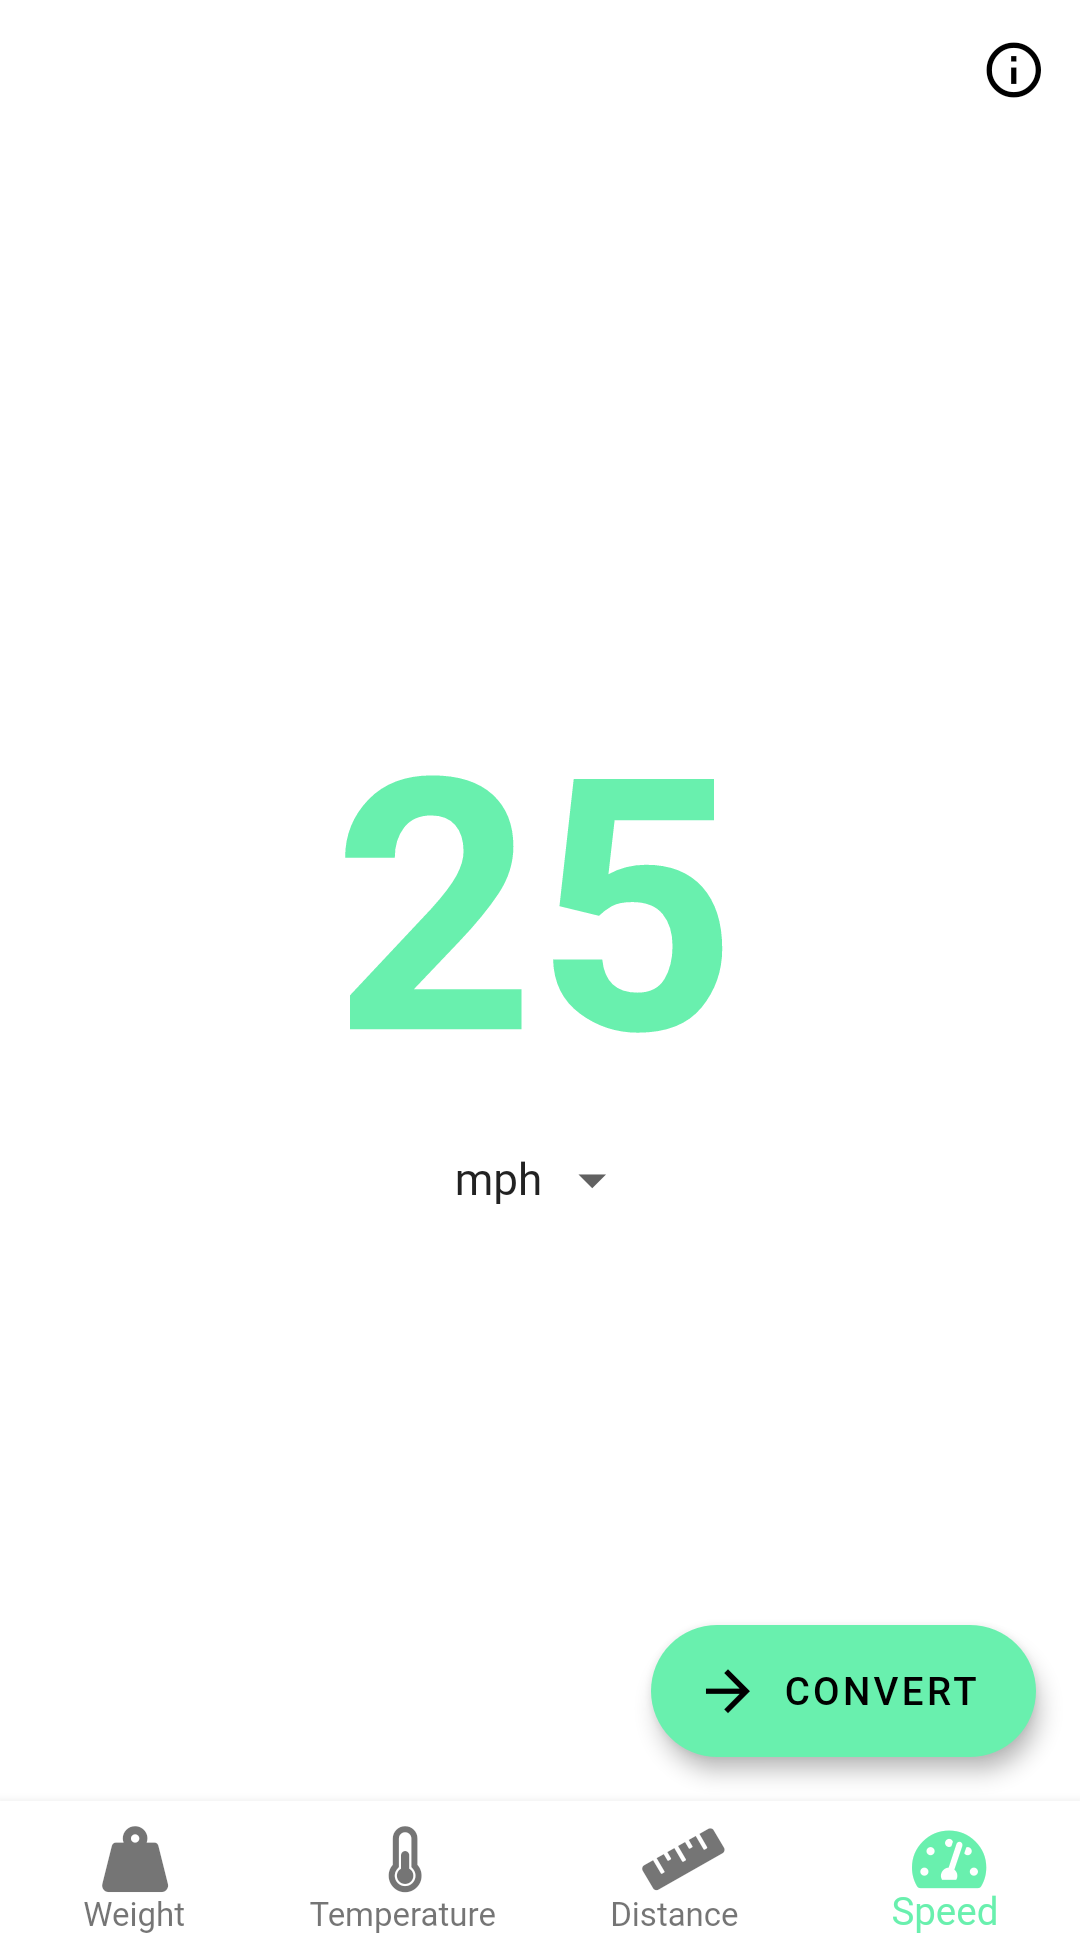
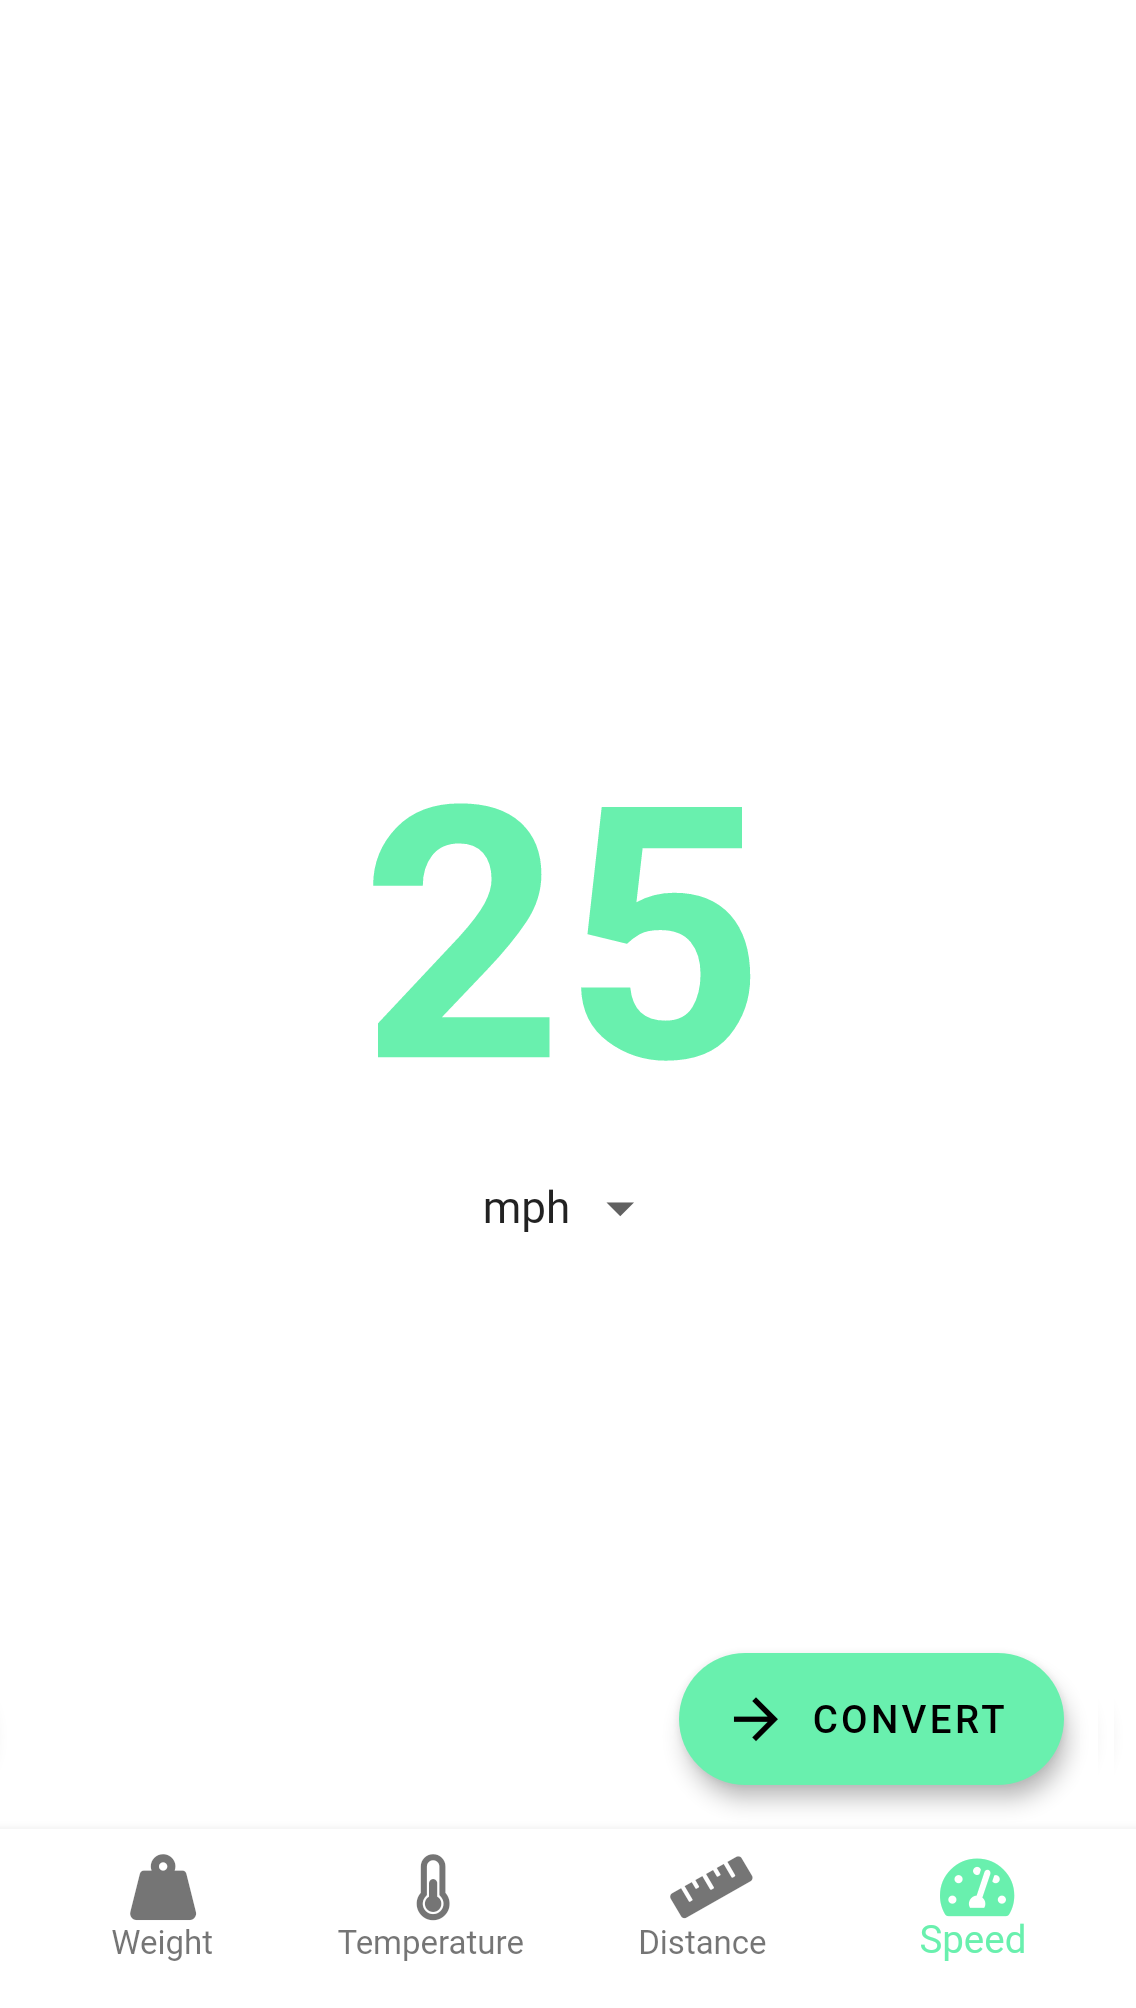
improve images

diff --git a/flutter_service_worker.js b/flutter_service_worker.js
@@ -3,7 +3,7 @@ const MANIFEST = 'flutter-app-manifest';
 const TEMP = 'flutter-temp-cache';
 const CACHE_NAME = 'flutter-app-cache';
 const RESOURCES = {
-  ".git/COMMIT_EDITMSG": "13b5e501ea90caa26a354a7e58e42830",
+  ".git/COMMIT_EDITMSG": "dc9829948ad50d9044d3e3cf8e77798d",
 ".git/config": "ea0b14179d7d19ff399baadd48c2910c",
 ".git/description": "a0a7c3fff21f2aea3cfa1d0316dd816c",
 ".git/FETCH_HEAD": "d41d8cd98f00b204e9800998ecf8427e",
@@ -20,11 +20,11 @@ const RESOURCES = {
 ".git/hooks/pre-receive.sample": "2ad18ec82c20af7b5926ed9cea6aeedd",
 ".git/hooks/prepare-commit-msg.sample": "2b5c047bdb474555e1787db32b2d2fc5",
 ".git/hooks/update.sample": "517f14b9239689dff8bda3022ebd9004",
-".git/index": "c1215e9bc3a10eeb22906334a8c042b9",
+".git/index": "7fb557e099a5a4eeb1f9132d43d2637f",
 ".git/info/exclude": "036208b4a1ab4a235d75c181e685e5a3",
-".git/logs/HEAD": "97d0f3de0c27204e5f0ccf0d7260c2ea",
-".git/logs/refs/heads/master": "97d0f3de0c27204e5f0ccf0d7260c2ea",
-".git/logs/refs/remotes/origin/master": "6a5c04f5cddae0b439ff963cb5bac4dc",
+".git/logs/HEAD": "128380ed83d41d924e434b8e4ffa4a1f",
+".git/logs/refs/heads/master": "128380ed83d41d924e434b8e4ffa4a1f",
+".git/logs/refs/remotes/origin/master": "28d1971e28be2f275130a8f0812b1672",
 ".git/objects/00/0feaf4e3abf6d2be7ee0c9a8d381b34e4d51ad": "48f677a78e747cac7ecf5c4482733beb",
 ".git/objects/00/7c2075d4d058023755f149a0c68ecc43adb08c": "431c358f05af62a983b4916b84d5e333",
 ".git/objects/01/193c92405418540c781e8698c6f90952f17709": "b6c75cb9297a96206a1c1e8a66422bd5",
@@ -43,6 +43,7 @@ const RESOURCES = {
 ".git/objects/06/dfa5db198a0749d1bdfc3d374ee7bbe0916125": "22461c128dce5d94d84aac25fe798700",
 ".git/objects/07/13cdaf4ab8564c40c24d958bea9efc552878ac": "745245ab0d51e91268917a919bbbd209",
 ".git/objects/07/4f95135c6f61f0d9f4322b1c2460715f93a0cf": "49d8c2931cf9573ec68ca5981faa326b",
+".git/objects/07/b0817a457101f3284c59ecc7cc1cd79004cdce": "6bcc1bc2d8f140261f8090c9c00f7f1b",
 ".git/objects/07/f7115259cadcf9c10a12c833695f0216f2edf9": "2c61c5b1398fb5c799ee695204131545",
 ".git/objects/08/065ec7fa9d6b934e8998ef964de2a7277fc17e": "e8771d7c83a1e1833ee75d99761075ad",
 ".git/objects/08/9c5188763af8a95529b448515edda210b999f6": "d41683bda4a6e7a6c590a594e62724d2",
@@ -59,6 +60,7 @@ const RESOURCES = {
 ".git/objects/0c/d56d647740fab15c090448225e7d0cb2be8036": "357be7c111ec2c3780cbd65f69a01c54",
 ".git/objects/0d/c6bcf0bc5945c3a32d218102f925e670f925c9": "1093c9bcb5302d97a2cf8e7a20667ebe",
 ".git/objects/0e/5a0f1791b31e5959ec12e4347bc372e769b851": "dbf45f870da4f41b823a7fc401ef04a3",
+".git/objects/0e/836132814fd0d82cfbab4327a12cec7d5803db": "2a050a22f354fdce47254cd1b52b2b4e",
 ".git/objects/0f/4ab0fecd3dfd2c826e01f3ef7f2fba6c449d04": "6c2ffca6a06445101aee35817284ab4d",
 ".git/objects/0f/a78ec32c7929644f0854746f231729996b89d1": "7b0cc1b40993e0fe2fb5d9bcd0033b1a",
 ".git/objects/10/5d49e73e51b2161f6863e04c348ed37775348a": "db26a2184f713533c1c7d6a5908f57c4",
@@ -133,6 +135,7 @@ const RESOURCES = {
 ".git/objects/a2/e96dccd2049d41002f174a51103573f2efa5ba": "62fa14b1b1c316228c8a8d4809e59c33",
 ".git/objects/a3/3b197edf2c29c73906a310a604a7074fe8dd91": "589091771ff95994ef4e04a09fe76a26",
 ".git/objects/a3/6535e8022af81edc2dc9b4f5245f376bf3035d": "733ad58560745e15aadffb8925f7230d",
+".git/objects/a3/6a426e6a91f7f53d445ae3fa91a3d59c22a1f5": "ffd8fd6f9710c8bd29c4100d24520d54",
 ".git/objects/a3/d6ff6da0284ca8fc3a8e2d0bb709a7346a7091": "78cff14d95906faadc94b94e2c6818eb",
 ".git/objects/a5/128ea2e4eaa5f7cc4aa3968f82653284b646da": "77b860154922c3129cf62f2c3dabee80",
 ".git/objects/a6/082c24b006e2107194dd1fcfdf66d8edfc97ef": "7540b923c5c8f05a5a422e8ecf815abc",
@@ -181,6 +184,7 @@ const RESOURCES = {
 ".git/objects/ba/18e4d160c331fe7d812daac492796a4d127a36": "c16bf62b497f35223846fdf0369babbf",
 ".git/objects/ba/5c37219ca635143fa667dcf67726c02c9dd26e": "3be3aeb4296285b5f5a6b763feaa8eb8",
 ".git/objects/ba/a54bb726a2ed13b8db39883ef2fe266312cfdf": "3f72e28b58e69e1f9e16492725b56487",
+".git/objects/bb/46089517a0a7debf182e6c34aee7c922e292d7": "8d2b35b45bc6f94d82dd20cb8e725cc7",
 ".git/objects/bb/91247198193e7a5c9f9951ebe13fda8ba74ce7": "49b5804427ca9ceb6d826651014c3542",
 ".git/objects/4a/dc56b7cad828e9769ee4568fe39738825377a0": "6472517eff6bbb2abf0a8f5085e6f21c",
 ".git/objects/4b/4dda4053048f3fc6361ee02862781df947a3c8": "08d6c911997191afa79e23b9e8e7ada1",
@@ -292,6 +296,7 @@ const RESOURCES = {
 ".git/objects/dd/f8fa6fe2df8655f1673d3997f726c2c93e9e02": "81cc9af8904cc8c60a5685c944226463",
 ".git/objects/de/f29e54053e33da1663e96f0ac9a581fd1f45c1": "f35b802b89012532eafb628320b4b89e",
 ".git/objects/df/42dce8e3e6bb5914903801179f6211d3bbb59c": "f89bba0570c489f7481b9cddafce1bb1",
+".git/objects/df/b6db98d9e788d576f30ccf83119c52208d2726": "505046153dbe8dc4e4869aaa4c601ed2",
 ".git/objects/e0/81f6b63d5a171d6c77ef8ed4a7e6f3e6ba07b0": "cbd88a339ce96995e3e18a6c895023b4",
 ".git/objects/e0/dd5fdb03d2e45a00dd7ff540f849c76f6defdf": "51424f4512aa1c5ff47e6a9d375fb1e8",
 ".git/objects/e2/1d1937c26a4d615c7ce7086bd735c2b13388aa": "edb9022e1865ede41352a022f409d876",
@@ -478,16 +483,17 @@ const RESOURCES = {
 ".git/objects/89/0c7c1908cc779cdf7aada7c6324b4548173879": "231134f796035f2325b95e5968b53760",
 ".git/objects/89/d48a8ac5b1135f8daee8d0f3b282e9382ee4bb": "475dc841392b7800dbfe0894d35aed4e",
 ".git/ORIG_HEAD": "0c12cc771c1af063fde9c6cc7a86e713",
-".git/refs/heads/master": "ab88ad0d0a0f34bf72d7fc242ee3595f",
-".git/refs/remotes/origin/master": "ab88ad0d0a0f34bf72d7fc242ee3595f",
-"assets/AssetManifest.json": "870004c5cf7d2c8925a969cd753d44ae",
+".git/refs/heads/master": "d4fba3bfc98bd63e72250881771a2af3",
+".git/refs/remotes/origin/master": "d4fba3bfc98bd63e72250881771a2af3",
+"assets/AssetManifest.json": "839714904e41bba3a3e4db4a7f7840f6",
 "assets/FontManifest.json": "dc3d03800ccca4601324923c0b1d6d57",
 "assets/fonts/MaterialIcons-Regular.otf": "1288c9e28052e028aba623321f7826ac",
 "assets/NOTICES": "cfc990831534cbd045f1a63c5c6ad297",
 "assets/packages/cupertino_icons/assets/CupertinoIcons.ttf": "6d342eb68f170c97609e9da345464e5e",
-"assets/res/Cardgame.png": "7f6549db29649ea7ea4508b8e39cc5d6",
+"assets/res/Cardgame.png": "bf7caa0c1388bfb3c27e5c5eff5a1b08",
 "assets/res/Cardgame.xcf": "cb9e1053be741fbd8645fcc221746d28",
-"assets/res/CleverConvert.png": "61f8578345218461c84822a527e2e94b",
+"assets/res/CleverConvert.png": "e6d1b24339117bd3a4a13e37ac563dfc",
+"assets/res/CleverConvert.xcf": "0753df1eff0a739a1e256462432dc23b",
 "assets/res/NYC.jpg": "4fbc6fbbb07d6b0df2b3cf771c118c80",
 "assets/res/PB.png": "c0164b6a28d29d17fa415c72171bd57f",
 "assets/res/PB.xcf": "1f3999a8ca093c38dfdc171e61019876",
@@ -502,8 +508,8 @@ const RESOURCES = {
 "icons/favicon.png": "e35788de4d37b8a911188f82bc655d9a",
 "icons/Icon-192.png": "ac9a721a12bbc803b44f645561ecb1e1",
 "icons/Icon-512.png": "96e752610906ba2a93c65f8abe1645f1",
-"index.html": "e110559f6113b80dcab4619487a9abd6",
-"/": "e110559f6113b80dcab4619487a9abd6",
+"index.html": "f901a043d6cbb1ee43420ba0c53140c9",
+"/": "f901a043d6cbb1ee43420ba0c53140c9",
 "main.dart.js": "7ef232371ec81e73e53add3f06da8053",
 "manifest.json": "c580e06a2f19677acc6181f9793745a2",
 "version.json": "281f2a7b1646c3dea6feea25f04fa556"

diff --git a/index.html b/index.html
@@ -36,7 +36,7 @@
   <script>
     if ('serviceWorker' in navigator) {
       window.addEventListener('flutter-first-frame', function () {
-        navigator.serviceWorker.register('flutter_service_worker.js?v=4205586315');
+        navigator.serviceWorker.register('flutter_service_worker.js?v=4227012912');
       });
     }
   </script>
